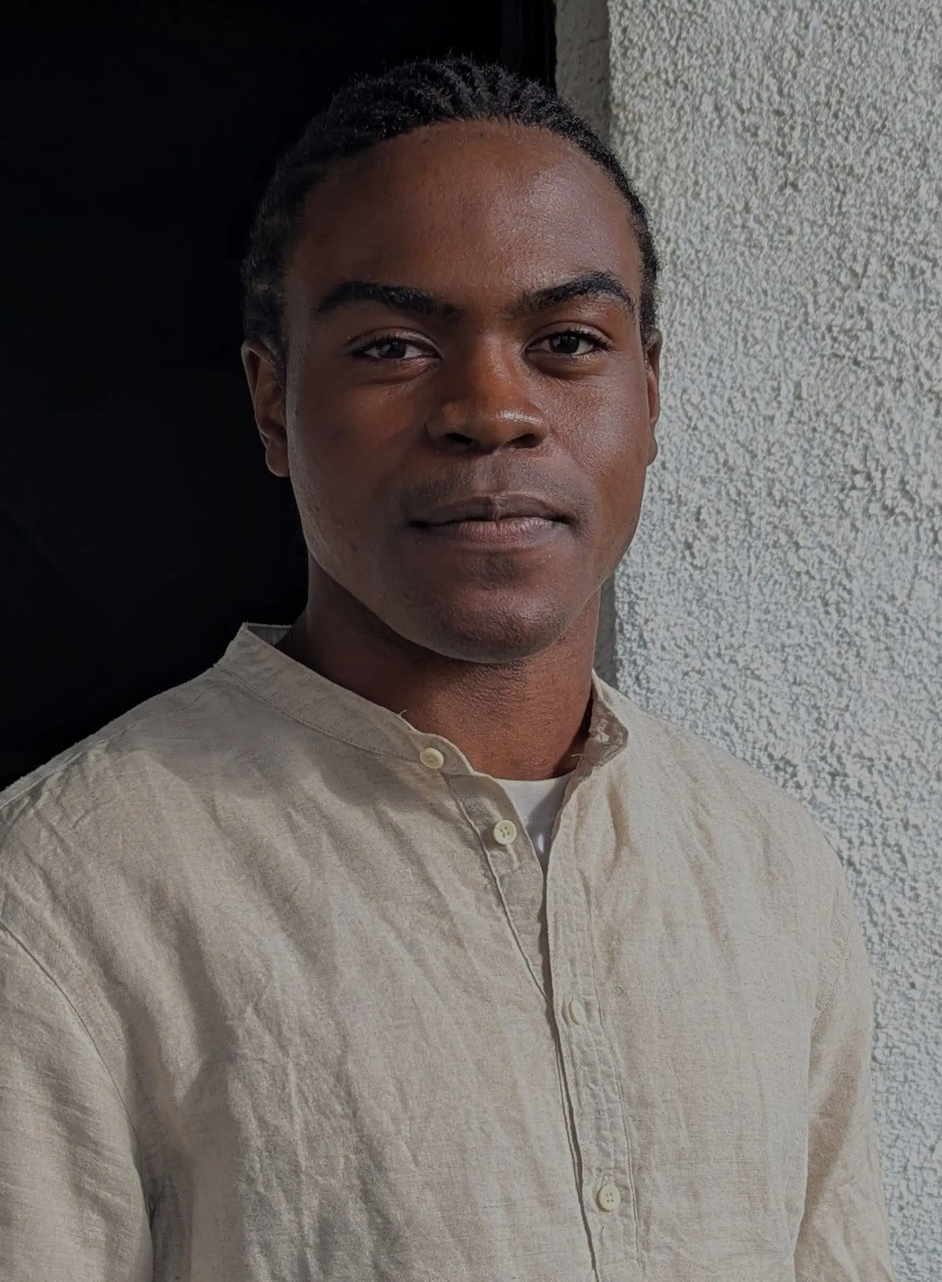
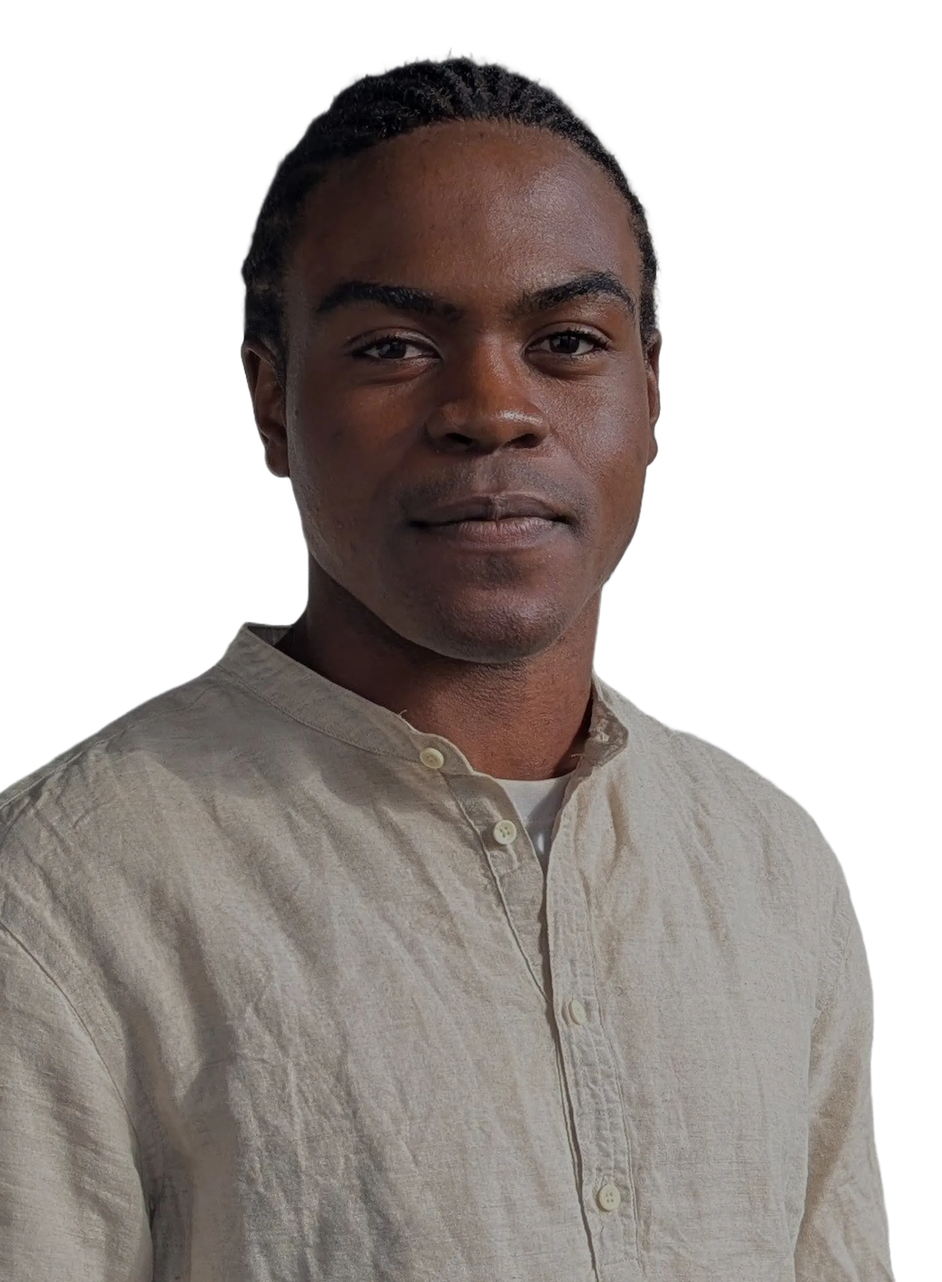
ajout de about section avec nouvelle photo

diff --git a/about.html b/about.html
@@ -19,7 +19,7 @@
             background-color: #0c0f0e;
             color: #F1F5F9;
             line-height: 1.8;
-            padding-top: 90px;
+            padding-top: 110px;
             background-image: radial-gradient(circle at 50% 0%, #151c19 0%, #0c0f0e 70%);
             background-attachment: fixed;
             min-height: 100vh;
@@ -28,7 +28,6 @@
             justify-content: space-between;
         }
 
-        /* NAVIGATION TOP */
         .top-nav {
             position: fixed;
             top: 0;
@@ -67,36 +66,71 @@
             text-shadow: 0 0 10px rgba(229, 184, 105, 0.6);
         }
 
-        /* SECTION ABOUT */
-        .about-container {
-            max-width: 800px;
-            margin: 40px auto;
-            padding: 0 20px;
-            text-align: center;
+        .about-wrapper {
+            max-width: 1100px;
+            margin: 20px auto 60px auto;
+            padding: 0 25px;
+            width: 100%;
         }
 
         .profile-card {
-            background: linear-gradient(145deg, #161F1B 0%, #101614 100%);
-            border: 1px solid rgba(229, 184, 105, 0.4);
-            border-radius: 20px;
-            padding: 40px;
-            box-shadow: 0 20px 50px rgba(0, 0, 0, 0.6);
-        }
-
-        .profile-img-wrapper {
-            width: 200px;
-            height: 200px;
-            margin: 0 auto 30px auto;
-            border-radius: 50%;
+            background: linear-gradient(145deg, #121815 0%, #0a0d0c 100%);
+            border: 1px solid rgba(229, 184, 105, 0.25);
+            border-radius: 24px;
+            padding: 50px 60px;
+            box-shadow: 0 30px 70px rgba(0, 0, 0, 0.8);
+            display: flex;
+            flex-direction: row;
+            gap: 60px;
+            align-items: center;
+            position: relative;
             overflow: hidden;
-            border: 2px solid #E5B869;
-            box-shadow: 0 0 25px rgba(229, 184, 105, 0.3);
         }
 
-        .profile-img-wrapper img {
+        /* INTEGRATION PHOTO SANS BORDURE AVEC OMBRE DOREE */
+        .profile-img-container {
+            flex: 0 0 380px;
+            display: flex;
+            justify-content: center;
+            align-items: flex-end;
+        }
+
+        .profile-img-container img {
             width: 100%;
-            height: 100%;
-            object-fit: cover;
+            height: auto;
+            display: block;
+            /* Halo lumineux subtil autour du détourage */
+            filter: drop-shadow(0 10px 25px rgba(229, 184, 105, 0.25));
+            transition: filter 0.4s ease, transform 0.4s ease;
+        }
+
+        .profile-img-container img:hover {
+            filter: drop-shadow(0 15px 35px rgba(229, 184, 105, 0.4));
+            transform: scale(1.02);
+        }
+
+        .about-content {
+            flex: 1;
+        }
+
+        .about-title {
+            font-size: 2.5rem;
+            color: #FFFFFF;
+            letter-spacing: 5px;
+            margin-bottom: 25px;
+            font-weight: 800;
+            position: relative;
+            padding-bottom: 12px;
+        }
+
+        .about-title::after {
+            content: '';
+            position: absolute;
+            bottom: 0;
+            left: 0;
+            width: 60px;
+            height: 2px;
+            background: #E5B869;
         }
 
         .about-text {
@@ -104,26 +138,84 @@
             color: #E2E8F0;
             letter-spacing: 1.5px;
             font-style: italic;
-            margin-bottom: 25px;
             line-height: 2;
+            margin-bottom: 35px;
         }
 
-        /* LECTEUR AUDIO CACHÉ */
-        .audio-player-hidden {
-            display: none;
+        /* BOUTON LECTEUR MUSIC */
+        .audio-btn {
+            background: rgba(229, 184, 105, 0.1);
+            border: 1px solid #E5B869;
+            color: #E5B869;
+            padding: 12px 28px;
+            font-family: 'Cinzel', serif;
+            font-size: 0.85rem;
+            letter-spacing: 3px;
+            cursor: pointer;
+            border-radius: 50px;
+            transition: all 0.3s ease;
+            text-transform: uppercase;
+            display: inline-flex;
+            align-items: center;
+            gap: 10px;
+        }
+
+        .audio-btn:hover {
+            background: #E5B869;
+            color: #0c0f0e;
+            box-shadow: 0 0 20px rgba(229, 184, 105, 0.4);
+        }
+
+        /* IFRAME CACHEE POUR YOUTUBE AUDIO */
+        .youtube-hidden {
+            position: absolute;
+            width: 0;
+            height: 0;
+            border: 0;
+            opacity: 0;
+            pointer-events: none;
         }
 
         footer {
             text-align: center;
             padding: 30px 20px;
             border-top: 1px solid rgba(40, 54, 47, 0.6);
-            margin-top: 40px;
+            max-width: 1200px;
+            margin: 0 auto;
+            width: 100%;
         }
 
         .copyright {
             color: #64748B;
             font-size: 0.85rem;
             letter-spacing: 1px;
+        }
+
+        @media (max-width: 900px) {
+            .profile-card {
+                flex-direction: column;
+                gap: 40px;
+                padding: 40px 25px;
+            }
+            .profile-img-container {
+                flex: 0 0 auto;
+                max-width: 280px;
+            }
+            .about-title {
+                text-align: center;
+                font-size: 2rem;
+            }
+            .about-title::after {
+                left: 50%;
+                transform: translateX(-50%);
+            }
+            .about-text {
+                text-align: center;
+                font-size: 1.05rem;
+            }
+            .about-content {
+                text-align: center;
+            }
         }
     </style>
 </head>
@@ -140,28 +232,72 @@
         </div>
     </nav>
 
-    <main class="about-container">
+    <main class="about-wrapper">
         <div class="profile-card">
-            <div class="profile-img-wrapper">
-                <!-- Assure-toi d'ajouter l'image 'profile.jpg' dans ton dossier images -->
-                <img src="images/profile.webp" alt="Nosakhare">
+            <div class="profile-img-container">
+                <img src="images/autoportrait.webp" alt="Nosakhare">
             </div>
-            <p class="about-text">
-                "Hi my name is Nosakhare, welcome to my open codex. I seek to express visions beneath the clamor of a restless world. I have made a covenant to never betray the truth I find within this sacred endeavour"
-            </p>
+            <div class="about-content">
+                <h1 class="about-title">NOSAKHARE</h1>
+                <p class="about-text">
+                    "Hi my name is Nosakhare, welcome to my open codex. I seek to express visions beneath the clamor of a restless world. I have made a covenant to never betray the truth I find within this sacred endeavour"
+                </p>
+                <button class="audio-btn" id="musicToggle">
+                    <span>♫</span> <span id="musicText">Play Atmosphere</span>
+                </button>
+            </div>
         </div>
     </main>
 
-    <!-- Intégration YouTube en arrière-plan pour la musique "Fly" de Ludovico Einaudi -->
-    <div class="audio-player-hidden">
-        <iframe src="https://www.youtube.com/embed/3e2o1B745zM?autoplay=1&loop=1&playlist=3e2o1B745zM" allow="autoplay"></iframe>
-    </div>
+    <!-- Lecteur YouTube pour la musique Fly de Ludovico Einaudi -->
+    <div class="youtube-hidden" id="ytPlayerContainer"></div>
 
     <footer>
         <div class="copyright">
             &copy; 2026 DECIPHART — All rights reserved.
         </div>
     </footer>
+
+    <!-- Script API YouTube pour contrôle garanti de la musique -->
+    <script src="https://www.youtube.com/iframe_api"></script>
+    <script>
+        let player;
+        let isPlaying = false;
+
+        function onYouTubeIframeAPIReady() {
+            player = new YT.Player('ytPlayerContainer', {
+                height: '0',
+                width: '0',
+                videoId: '3e2o1B745zM', // Fly - Ludovico Einaudi
+                playerVars: {
+                    'autoplay': 0,
+                    'controls': 0,
+                    'loop': 1,
+                    'playlist': '3e2o1B745zM'
+                },
+                events: {
+                    'onReady': onPlayerReady
+                }
+            });
+        }
+
+        function onPlayerReady(event) {
+            const btn = document.getElementById('musicToggle');
+            const btnText = document.getElementById('musicText');
+
+            btn.addEventListener('click', () => {
+                if (!isPlaying) {
+                    player.playVideo();
+                    btnText.textContent = "Pause Atmosphere";
+                    isPlaying = true;
+                } else {
+                    player.pauseVideo();
+                    btnText.textContent = "Play Atmosphere";
+                    isPlaying = false;
+                }
+            });
+        }
+    </script>
 
 </body>
 </html>
